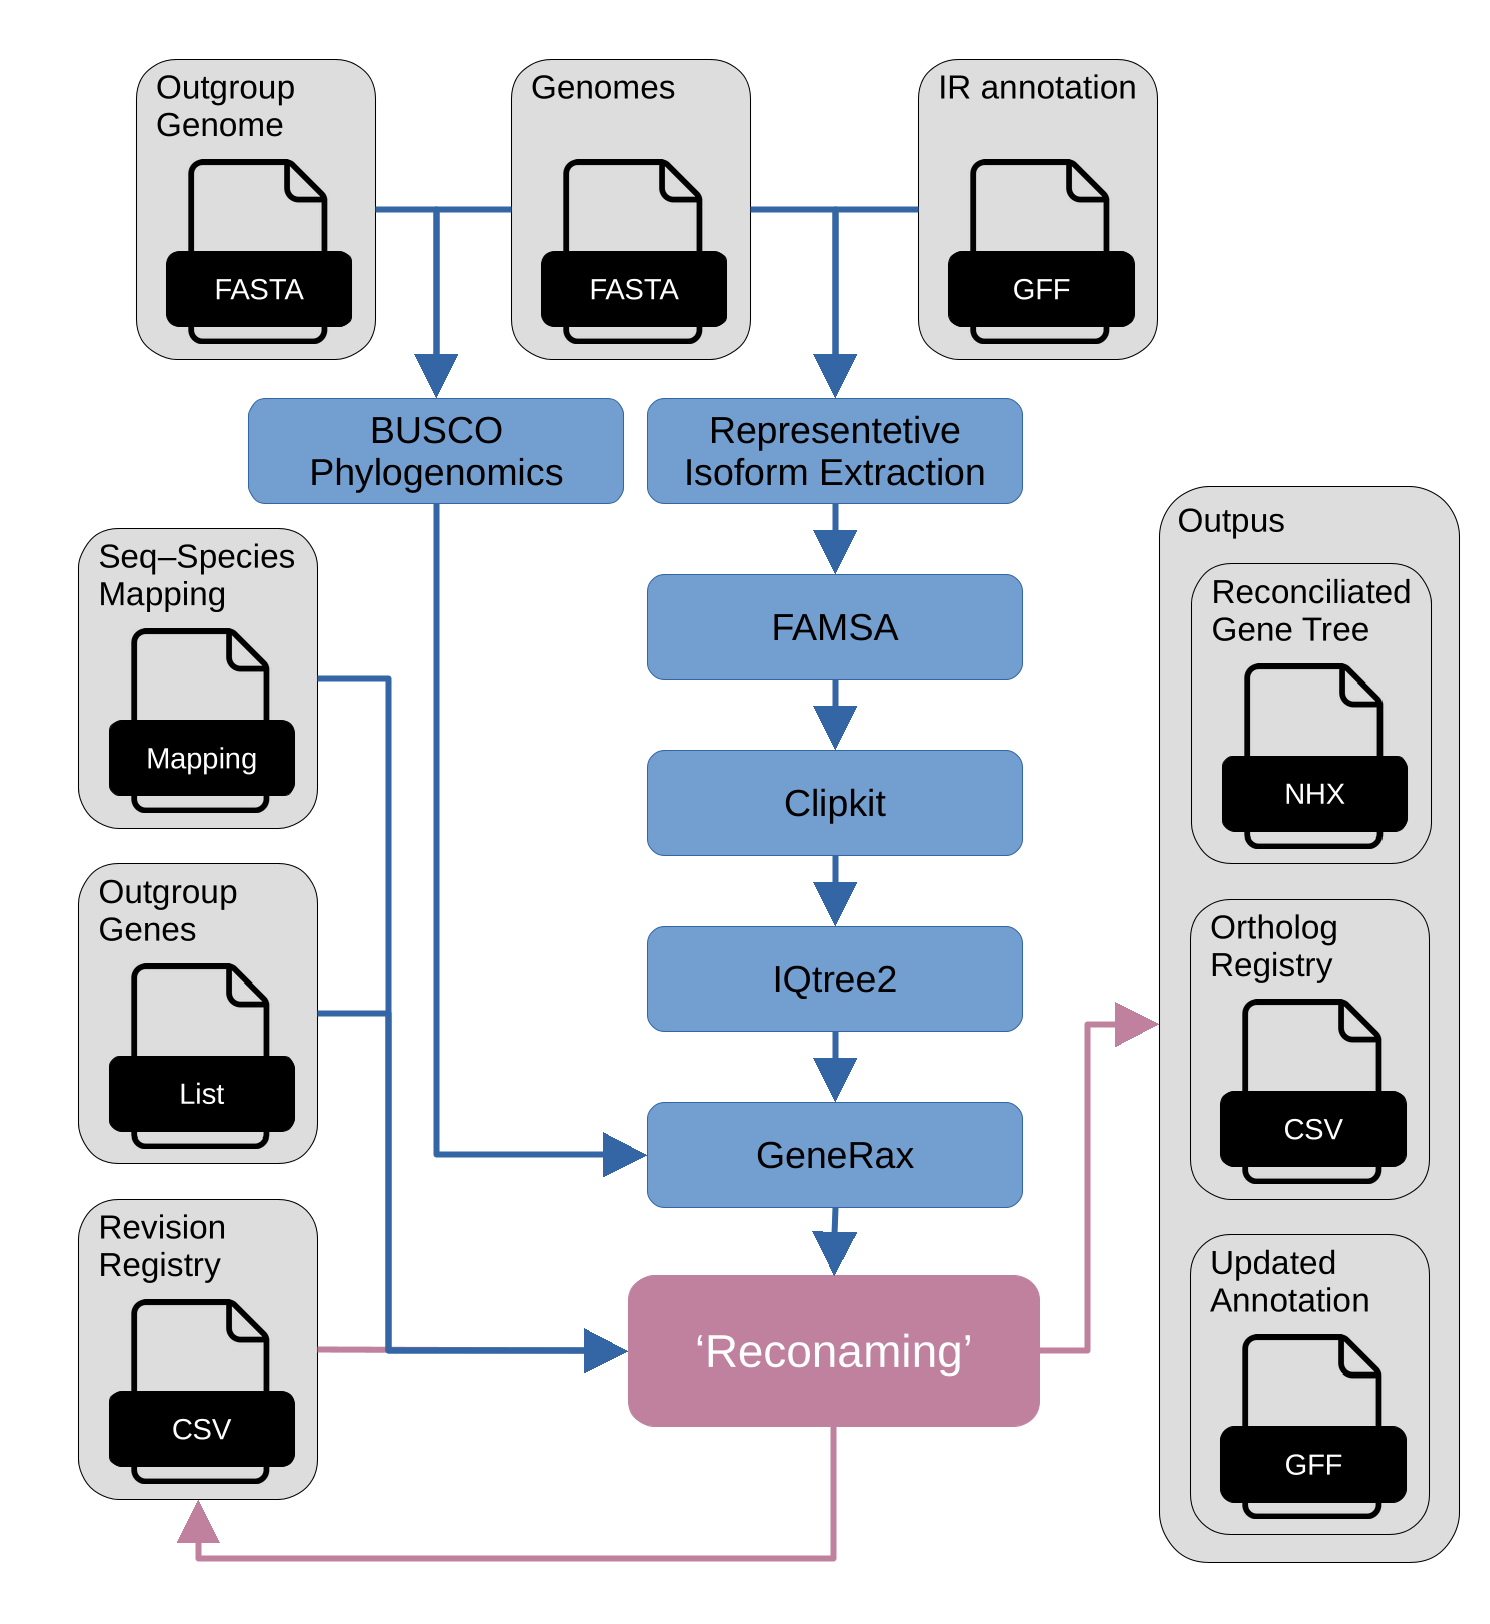
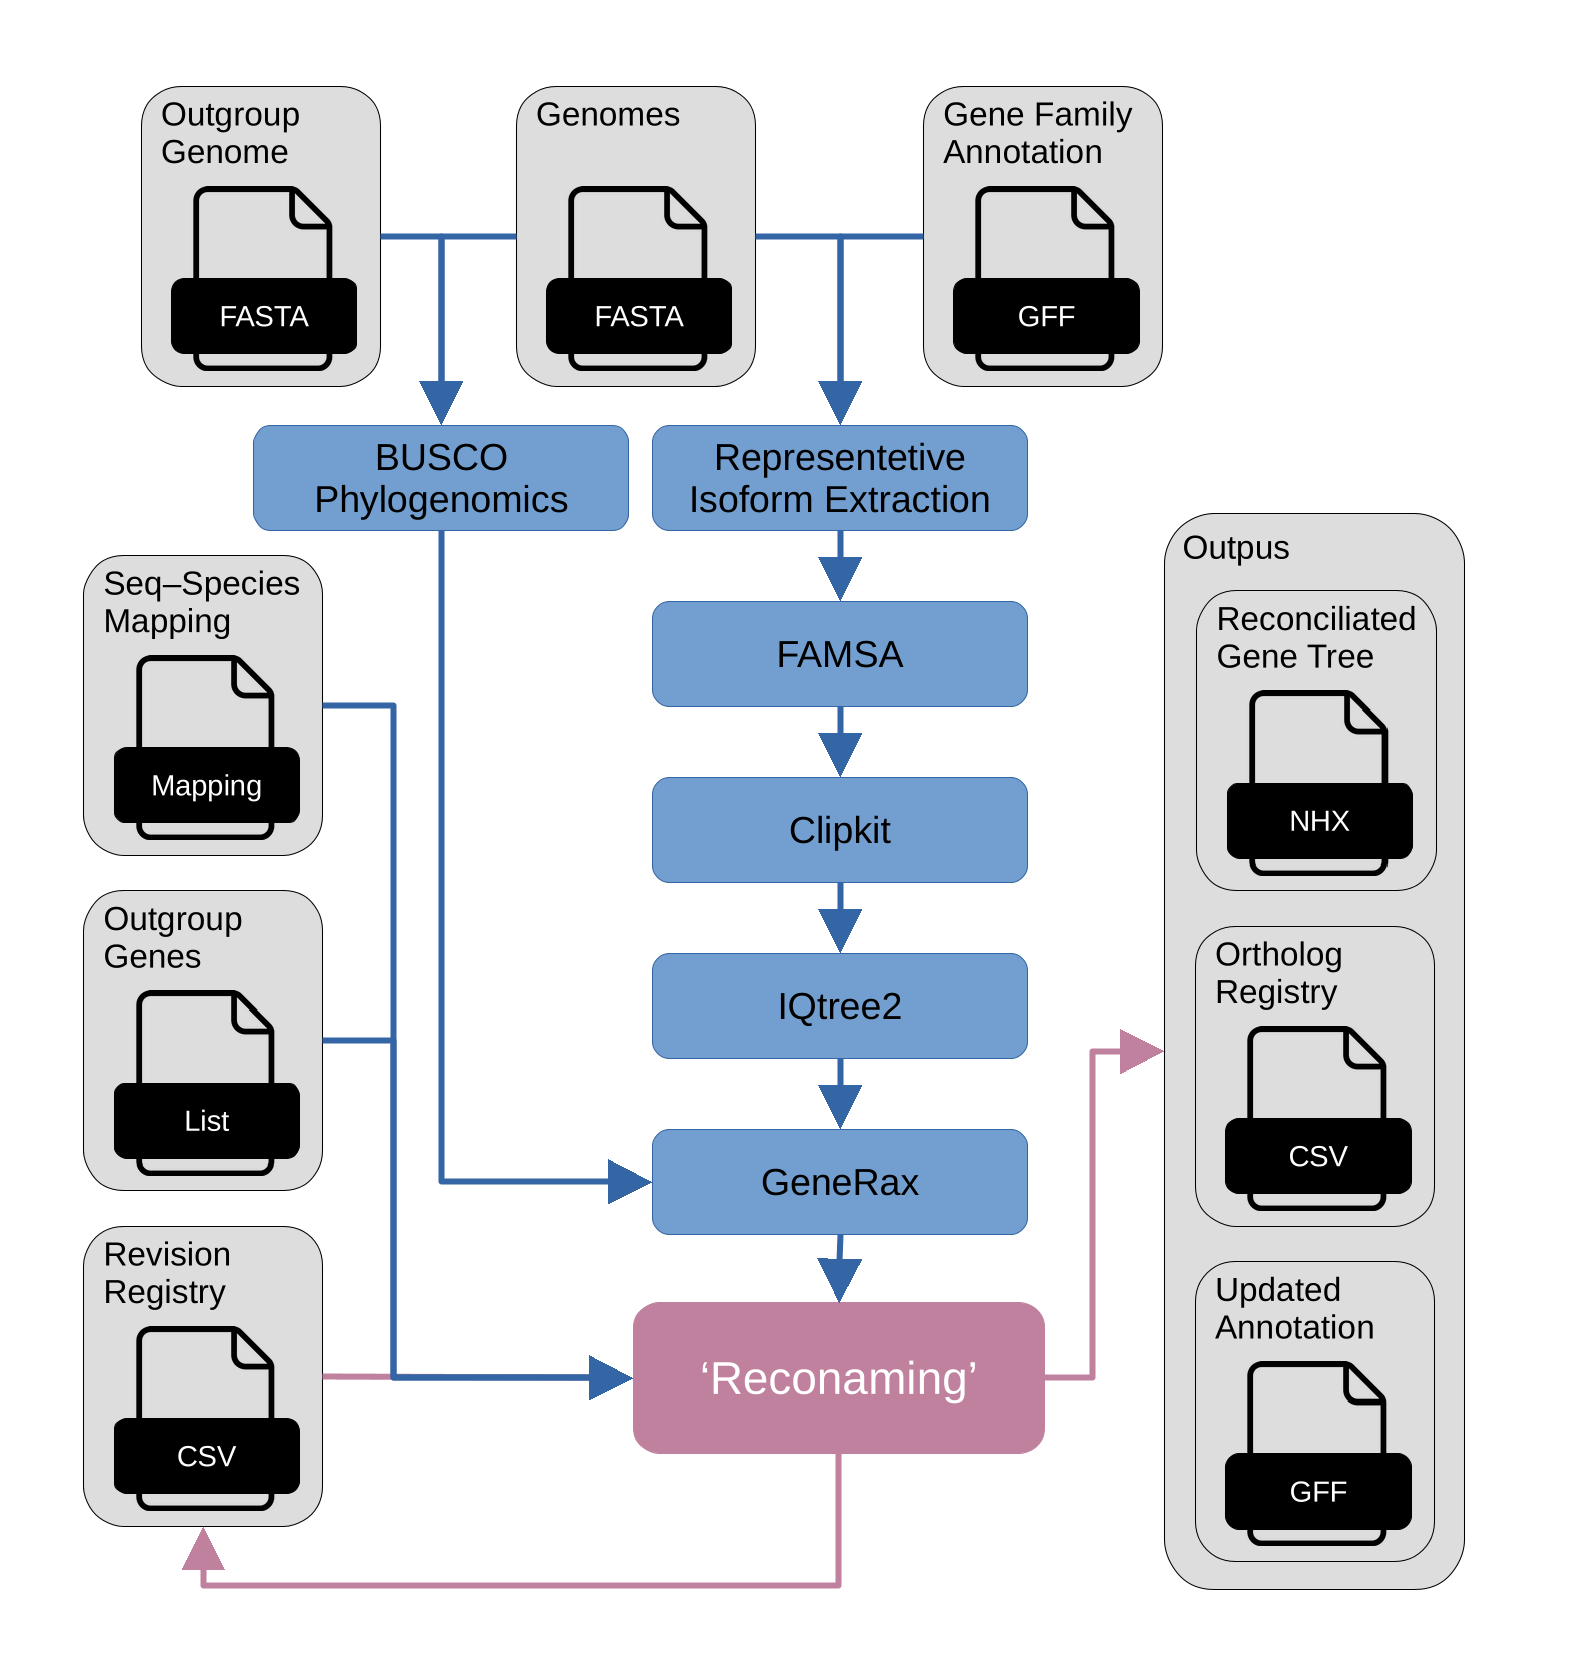
Add README draft

Changed region(s): [[0.0617, 0.0308, 0.9879, 0.9852], [0.3705, 0.6773, 0.4631, 0.7389], [0.0617, 0.6158, 0.0926, 0.6466]]

diff --git a/README.md b/README.md
@@ -1,29 +1,299 @@
 # Reconaming
 
-Orthology-aware multigene-family reconciliation and naming.
+Reconaming is an ortholog-aware multigene-family reconciliation and naming pipeline. Starting from either IR gene annotations and genomic sequences or a prepared protein set, it infers or validates a species tree, infers and reconciles a gene tree, and assigns consistent Reconaming names. A revision registry carries forward unambiguous historical ParentGroup assignments between annotation or dataset revisions.
 
-> **Status: beta / under active development**
->
-> The standalone core script is publicly available as a beta version.
-> The Nextflow pipeline is currently under construction and is **not yet
-> functional as an end-to-end workflow**. Its modules and interfaces may change
-> substantially before the first usable release.
+**Workflow:**
 
-![Reconaming workflow overview](assets/Reconaming_FlowChart.png)
+![Reconaming workflow](assets/Reconaming_FlowChart.png)
 
-## Current contents
+## Installation and prerequisites
 
-- `full_beta_reconaming_core_script_v6.py`: current beta version of the core
-  reconciliation and naming script.
-- `main.nf`, `modules/`, and `bin/`: Nextflow workflow under development.
-  These files do not yet constitute a runnable analysis pipeline.
+### Software requirements
+
+Reconaming is implemented in Nextflow DSL 2. You need:
+
+- [Nextflow](https://www.nextflow.io/)
+- A POSIX-compatible shell with Bash available
+- Either Docker or Apptainer/Singularity to run the configured containers
+- Sufficient local disk space for Nextflow task directories and intermediate sequence/tree files
+
+The workflow currently uses Nextflow's `local` executor by default. Docker and Singularity/Apptainer profiles are provided. Scheduler-based HPC execution is described as experimental below.
+
+Clone the repository and enter it:
+
+```bash
+git clone https://github.com/scie-mon/Reconaming.git
+cd Reconaming
+```
+
+### Container runtime
+
+Use one of the supplied profiles:
+
+```bash
+# Docker
+nextflow run main.nf -profile docker [options]
+
+# Apptainer/Singularity
+nextflow run main.nf -profile singularity [options]
+```
+
+The configured workflow stages use separate images for species-tree inference, gene-tree inference, GeneRax reconciliation, and Reconaming. Make sure the relevant images are available to the container runtime before starting a production run.
+
+### Run the bundled test dataset
+
+The repository includes small integration-test datasets under `test/`, including a species-tree-inference case in `test/spec_tree/` and supplied-species-tree cases in `test/provide_spec_tree/`. These datasets include test genome FASTA files, an IR GFF3, a species-input table, and—where relevant—outgroup genes or a supplied species tree.
+
+The following is the intended smoke-test pattern. Run it in a new output directory and set a deliberately modest GeneRax CPU allocation appropriate to the machine:
+
+```bash
+nextflow run main.nf \
+  -profile docker \
+  --input_mode annotation \
+  --species_inputs test/spec_tree/test_species_tree_inputs.tsv \
+  --ir_gff test/spec_tree/merged.rev0.gff3 \
+  --outgroup_genes test/spec_tree/outgroup_genes.txt \
+  --revision_tag test_rev_001 \
+  --generax_cpus 4 \
+  --outdir results_test
+```
+
+Do not write test results into the versioned `test/` directory. The committed HTML reports and trace files there are test artifacts, not destinations for a new run.
+
+> **Note:** Confirm this command against the repository's current CI or test procedure before treating it as a release-validation command. It is a documented smoke-test invocation assembled from the bundled `test/spec_tree` inputs.
+
+## Quick start
+
+For a standard analysis that starts from genome FASTA files and IR annotations, run:
+
+```bash
+nextflow run main.nf \
+  -profile docker \
+  --input_mode annotation \
+  --species_inputs path/to/species_inputs.tsv \
+  --ir_gff 'path/to/ir_annotations/*.gff3' \
+  --revision_tag rev_001 \
+  --generax_cpus 8 \
+  --outdir results \
+  -resume
+```
+
+Replace the placeholder paths and choose a `--generax_cpus` value that fits the allocation actually available to the run. `--revision_tag` is required. Use `-resume` when repeating or restarting a run with unchanged inputs and configuration; it lets Nextflow reuse valid completed tasks retained in the work directory.
+
+A protein-route run, using pre-extracted representative proteins, has the following form:
+
+```bash
+nextflow run main.nf \
+  -profile docker \
+  --input_mode protein \
+  --protein_fasta path/to/representative_proteins.faa \
+  --id_species path/to/gene_to_species.tsv \
+  --species_tree path/to/species_tree.nwk \
+  --revision_tag rev_001 \
+  --generax_cpus 8 \
+  --gff_output none \
+  --outdir results \
+  -resume
+```
+
+## Input routes
+
+Reconaming has two input routes. Both converge on protein alignment, gene-tree inference, reconciliation, and naming.
+
+### Annotation route
+
+Use `--input_mode annotation` when beginning with genome sequences and IR annotations. This is the default route.
+
+Required inputs:
+
+| Parameter | Description |
+|---|---|
+| `--species_inputs` | Tab-separated species-input table that identifies focal species and their genome FASTA files |
+| `--ir_gff` | IR annotation GFF/GFF3 file or path/glob resolving to the annotation file(s) |
+| `--revision_tag` | Identifier for this naming revision round |
+| `--generax_cpus` | CPU allocation to use for GeneRax reconciliation |
+
+The pipeline prepares proteins from the annotations, builds an input manifest, and selects one representative isoform per gene. Supply `--selection_table` when manual representative-isoform choices are required. Without it, the pipeline applies its automatic representative-selection procedure; if a required manual selection remains unresolved, the run stops and writes material for completion under the output directory.
+
+### Protein route
+
+Use `--input_mode protein` when representative protein sequences are already available.
+
+Required inputs:
+
+| Parameter | Description |
+|---|---|
+| `--protein_fasta` | Protein FASTA containing the representative sequences to analyse |
+| `--id_species` | Gene-ID-to-species-ID mapping file corresponding to the protein FASTA |
+| `--revision_tag` | Identifier for this naming revision round |
+| `--generax_cpus` | CPU allocation to use for GeneRax reconciliation |
+
+Protein mode validates the supplied proteins and mapping, but does not have source GFF/GFF3 records to rewrite. Use `--gff_output none` in this mode.
+
+### Shared optional inputs
+
+| Parameter | Purpose |
+|---|---|
+| `--species_tree` | Use a supplied species tree instead of inferring one |
+| `--species_tree_outgroup` | Outgroup information used when validating or rooting a supplied species tree |
+| `--outgroup_genes` | File of gene IDs used for gene-tree rooting; an empty project asset is used when omitted |
+| `--revision_registry` | Revision registry from a previous naming round; an empty project registry is used for a first round |
+| `--reconaming_opt` | Path to the advanced Reconaming-core control file; defaults to `conf/reconaming_opt.ctl` |
+| `--outdir` | Destination for final results; defaults to `results` |
+
+If no `--species_tree` is given, the pipeline infers one internally. Internal species-tree inference requires `--species_inputs`; therefore, protein-mode analyses normally supply a species tree.
+
+## Parameters
+
+Provide Nextflow parameters as `--name value`. The parameters below are grouped by purpose. Values in `nextflow.config` and `main.nf` are the authoritative defaults for the checked-out pipeline version.
+
+### Core run parameters
+
+| Parameter | Default | Meaning |
+|---|---:|---|
+| `--input_mode` | `annotation` | Select `annotation` or `protein` input route |
+| `--outdir` | `results` | Final-results directory |
+| `--revision_tag` | none; required | Name for the current revision round, for example `rev_001` |
+| `--revision_registry` | empty project registry | Previous revision registry to continue from |
+| `--gff_output` | `update` | Annotation-mode output policy: `update`, `minimal`, or `none` |
+
+### Annotation and protein inputs
+
+| Parameter | Default | Meaning |
+|---|---:|---|
+| `--species_inputs` | none | Species-input table for annotation mode and internal species-tree inference |
+| `--ir_gff` | none | IR annotation GFF/GFF3 for annotation mode |
+| `--selection_table` | empty project table | Optional manual representative-isoform selection table |
+| `--protein_fasta` | none | Representative protein FASTA for protein mode |
+| `--id_species` | none | Gene-to-species mapping for protein mode |
+| `--gene_id_attribute` | `ID` | GFF attribute used as the gene identifier |
+| `--transcript_id_attribute` | `ID` | GFF attribute used as the transcript identifier |
+| `--protein_id_attribute` | empty | Optional GFF attribute used as the protein identifier |
+
+### Species-tree parameters
+
+| Parameter | Default | Meaning |
+|---|---:|---|
+| `--species_tree` | none | Supplied species tree; skips internal species-tree inference |
+| `--species_tree_outgroup` | none | Outgroup for supplied-tree validation/rooting |
+| `--busco_lineage` | none | BUSCO lineage dataset to use, if specified |
+| `--busco_auto_lineage` | `true` | Let BUSCO choose a lineage automatically |
+| `--busco_mode` | `auto` | BUSCO analysis mode |
+| `--busco_threads` | `4` | Threads for BUSCO |
+| `--busco_warn_complete` | `90` | Completeness threshold that triggers a warning |
+| `--species_tree_threads` | `4` | Threads for species-tree inference |
+| `--species_tree_bootstrap` | `1000` | Number of species-tree bootstrap replicates |
+| `--species_tree_min_taxa` | `3` | Minimum number of taxa required for species-tree inference |
+
+### Gene-tree and reconciliation parameters
+
+| Parameter | Default | Meaning |
+|---|---:|---|
+| `--famsa_args` | empty | Additional arguments passed to FAMSA |
+| `--iqtree_args` | empty | Additional arguments passed to IQ-TREE |
+| `--gene_tree_container` | `reconaming-gene-tree:0.1.0` | Container for the labelled gene-tree process |
+| `--generax_cpus` | **set explicitly** | CPUs allocated to GeneRax reconciliation |
+| `--generax_rec_model` | `UndatedDL` | GeneRax reconciliation model |
+| `--generax_strategy` | `SPR` | GeneRax search strategy |
+| `--generax_seed` | `12345` | Random seed for GeneRax |
+| `--generax_args` | empty | Additional arguments passed to GeneRax |
+| `--generax_container` | `reconaming-generax:2.0.4` | Container for GeneRax reconciliation |
+
+`--generax_cpus` should always be selected for the resources available to the run. The README intentionally treats it as an explicit user decision rather than recommending a high fixed default.
+
+### Advanced naming configuration
+
+| Parameter | Default | Meaning |
+|---|---:|---|
+| `--reconaming_opt` | `conf/reconaming_opt.ctl` | Advanced Reconaming-core control file |
+| `--reconaming_container` | `reconaming-core:6.2` | Container for the Reconaming core |
+| `--outgroup_genes` | empty project file | Gene IDs used to root the reconciled gene tree |
+
+## Revision rounds and revision registry
+
+### Why revisioning exists
+
+Gene-family naming is often repeated as annotations improve, taxa are added, gene models change, or phylogenetic evidence is updated. Reconaming treats each such analysis as a revision round. The goal is to preserve unambiguous historical ParentGroup assignments where possible while allowing names to change when the underlying reconciliation genuinely changes.
+
+### Starting a revision round
+
+Every run must have a `--revision_tag`. Choose a stable, human-readable tag that identifies the round, for example `rev_001`, `rev_002`, or a date-based tag such as `rev_20260924`.
+
+For a first round, omit `--revision_registry`; the workflow starts from the project's empty registry. For a later round, supply the registry produced by the previous accepted round:
+
+```bash
+nextflow run main.nf -profile docker \
+  --revision_tag rev_002 \
+  --revision_registry path/to/rev_001_revision_registry.csv \
+  --generax_cpus 8 \
+  [other input and run parameters]
+```
+
+Do not reuse a revision tag for a biologically distinct round. Retain the inputs, configuration, registry, named tree, name table, and report associated with every accepted revision.
+
+### The revision registry
+
+The revision registry records historical ParentGroup assignments. It is an input to a new round and an output from the Reconaming stage. Carrying it forward gives the naming core the information needed to restore unambiguous historical assignments rather than treating each revision as an unrelated naming exercise.
+
+The actual policy is controlled by the Reconaming control file. In particular:
+
+- `minimal_id` defines the lowest numeric ParentGroup identifier for a new empty registry.
+- `allow_revive_pg` permits restoration of unambiguous historical ParentGroup assignments.
+- `prefix` supplies the optional gene-family label embedded in generated names.
+- `aliases` provides species-to-alias mappings.
+
+### Advanced control file
+
+`conf/reconaming_opt.ctl` is an advanced configuration file for the Reconaming core. Empty values are ignored. It contains options for support thresholds, aliases, outgroup treatment, ParentGroup limits and overrides, rooting, tree ordering, and boundary behaviour.
+
+Do not use its input-preparation-looking entries as a substitute for the Nextflow command-line interface. Invoke the pipeline with `--species_inputs`, `--ir_gff`, `--protein_fasta`, `--id_species`, and the other documented Nextflow options; use `--reconaming_opt` only to select the naming-core configuration file.
+
+## Output
+
+Reconaming writes final, user-facing outputs under `--outdir` (default: `results`). Exact filenames and subdirectory names are part of the pipeline version and should be recorded with the run.
+
+### Primary outputs
+
+The Reconaming stage produces the material needed to interpret and continue a naming round:
+
+- A named reconciled gene tree
+- A gene-name table
+- An updated revision registry for a subsequent revision round
+- A Reconaming report
+- A temporary partition artifact used by post-processing
+
+### Annotation-mode outputs
+
+When `--input_mode annotation` and `--gff_output update` are used, post-processing applies Reconaming results to the supplied annotation data. `--gff_output minimal` requests a reduced annotation-oriented output, while `--gff_output none` suppresses GFF/GFF3 output.
+
+### Protein-mode outputs
+
+Protein mode produces the naming outputs but has no source GFF/GFF3 records to update. Set `--gff_output none`.
+
+### Run state and intermediate files
+
+The Nextflow `work/` directory and `.nextflow/` contain execution state, staged inputs, logs, task scripts, caches, and intermediates. They support `-resume` but are not scientific deliverables and should not be committed to Git. Remove them only after deciding that the associated run no longer needs to be resumed.
+
+If reports, traces, or timelines are enabled for a run, treat them as execution diagnostics. They are useful for troubleshooting and provenance, but they are distinct from the final named tree, name table, revision registry, and annotation outputs.
+
+## HPC and container configuration
+
+HPC schedulers and non-local executors are not yet fully supported or fully validated by Reconaming. The checked-in configuration defaults to Nextflow's local executor and supplies Docker and Singularity/Apptainer profiles as starting points.
+
+Before production use on an HPC system:
+
+- Run the bundled test dataset with the intended container runtime.
+- Configure the executor and process-resource settings for the local scheduler policy.
+- Verify that input, output, temporary, and container-cache filesystems are visible on compute nodes.
+- Set `--generax_cpus` to the CPU allocation granted to the GeneRax task; do not assume a machine-wide or fixed pipeline default.
+- Validate memory limits, walltime, container mounts, and writable output ownership.
+
+A scheduler-specific profile—for example, Slurm, PBS, LSF, or SGE—should be considered site configuration and tested before it is presented as supported.
+
+## License
+
+Reconaming is distributed under the GNU General Public License v3.0. See [`LICENSE`](LICENSE).
 
 ## Citation
 
-If you use Reconaming, please cite it using the information in
-[`CITATION.cff`](CITATION.cff).
-
-## Licence
-
-Reconaming is distributed under the
-[GNU General Public License v3.0 or later](LICENSE).
+Citation metadata is provided in [`CITATION.cff`](CITATION.cff). Please cite the software using that file and cite the underlying methods and software used by your analysis where appropriate.
